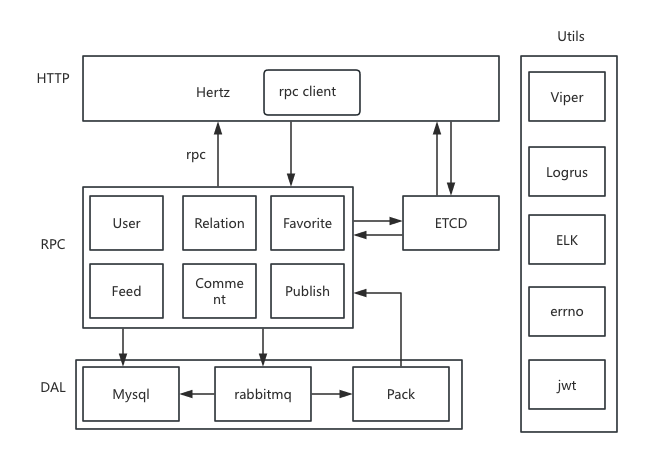
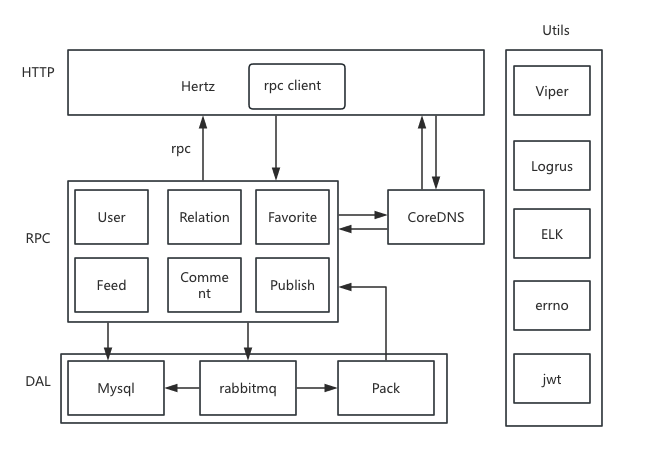
change of k8s jobs

Changed region(s): [[0.0304, 0.0618, 0.9437, 0.9581], [0.0304, 0.1236, 0.1218, 0.1854]]

diff --git a/README.md b/README.md
@@ -14,8 +14,6 @@ A backend social media project using Kitex + Hertz + RPC + Kubernetes，supporti
 
 * Using **Kitex** as **micro services** framework and **Hertz** as HTTP Api gateway(both open sourced by bytedance)
 
-* Using **Etcd** as service registry and discovery
-
 * Using **AWS S3** as object storage
 
 * Using **rabbitmq** as message queue
@@ -26,14 +24,14 @@ A backend social media project using Kitex + Hertz + RPC + Kubernetes，supporti
 
 | Service  | Description                          | Techniques            | Protocol | service registry |
 |----------|--------------------------------------|-----------------------|----------|------------------|
-| api      | Routing HTTP request to RPC Services | `Gorm` `Kitex` `Hertz` | `http`   | `etcd`           |
-| user     | User Management                      | `JWT`                 | `proto3` | `etcd`               |
-| relation | User Following Management            | -                     | -        | `etcd`                |
-| feed     | Posts Stream                         | -                     | -        | `etcd`               |
-| favorite | Favorite Management                  | -                     | -        | `etcd`                |
-| comment  | Comment Management                   | `rabbitmq`             | -        | `etcd`                |
-| publish  | Posts Publish Management             | `AWS S3`              | -        | `etcd`                |
-| dal      | Data Access Layer                    | `MySQL` `gorm`        | -        | `etcd`               |
+| api      | Routing HTTP request to RPC Services | `Gorm` `Kitex` `Hertz` | `http`   | `CoreDNS`        |
+| user     | User Management                      | `JWT`                 | `proto3` | `CoreDNS`        |
+| relation | User Following Management            | -                     | -        | `CoreDNS`        |
+| feed     | Posts Stream                         | -                     | -        | `CoreDNS`        |
+| favorite | Favorite Management                  | -                     | -        | `CoreDNS`        |
+| comment  | Comment Management                   | `rabbitmq`             | -        | `CoreDNS`        |
+| publish  | Posts Publish Management             | `AWS S3`              | -        | `CoreDNS`        |
+| dal      | Data Access Layer                    | `MySQL` `gorm`        | -        | `CoreDNS`        |
 
 ![image.png](docs/Services_description.png)
 
@@ -134,35 +132,12 @@ A backend social media project using Kitex + Hertz + RPC + Kubernetes，supporti
    ```shell
    ./script/kubernetes/deploy.sh
    ```
-9. Start a Mysql pod and run a sql file(This only needs to be done once,the tables are created by GORM by Automigrate and the "on delete cascade" feature can't be done using gorm,that's why need this step)<br>
-   Create a mysql-client pod
+   
+9. Start a kubernetes job 
    ```shell
-   kubectl run mysql-client --image=mysql:latest -it --rm -- bash
+   kubectl apply -f config/kubernetes/infra/jobs/add_casscade.yaml
    ```
-   Enter the mysql-client pod
-   ```shell
-   kubectl exec -it mysql-client -- bash
-   ```
-   Connect to Mysql pod(The password is specified in the config/DataBase.yaml)
-   ```shell
-   mysql -h mysql -P 3306 -u root -p
-   ```
-   In mysql client<br>
-   Select Database
-   ```shell
-   use bloomblog
-   ```
-   Run the script
-   ```shell
-   ALTER TABLE comment DROP FOREIGN KEY fk_comment_parent;
-   ALTER TABLE comment DROP FOREIGN KEY fk_comment_reply;
-   ALTER TABLE comment
-   ADD CONSTRAINT fk_comment_parent
-   FOREIGN KEY (parent_id) REFERENCES comment (id) ON DELETE CASCADE;
-   ALTER TABLE comment
-   ADD CONSTRAINT fk_comment_reply
-   FOREIGN KEY (reply_id) REFERENCES comment (id) ON DELETE CASCADE;
-   ```
+   
 10. Verify Deployment<br>
    Verify Pods
    ```shell
